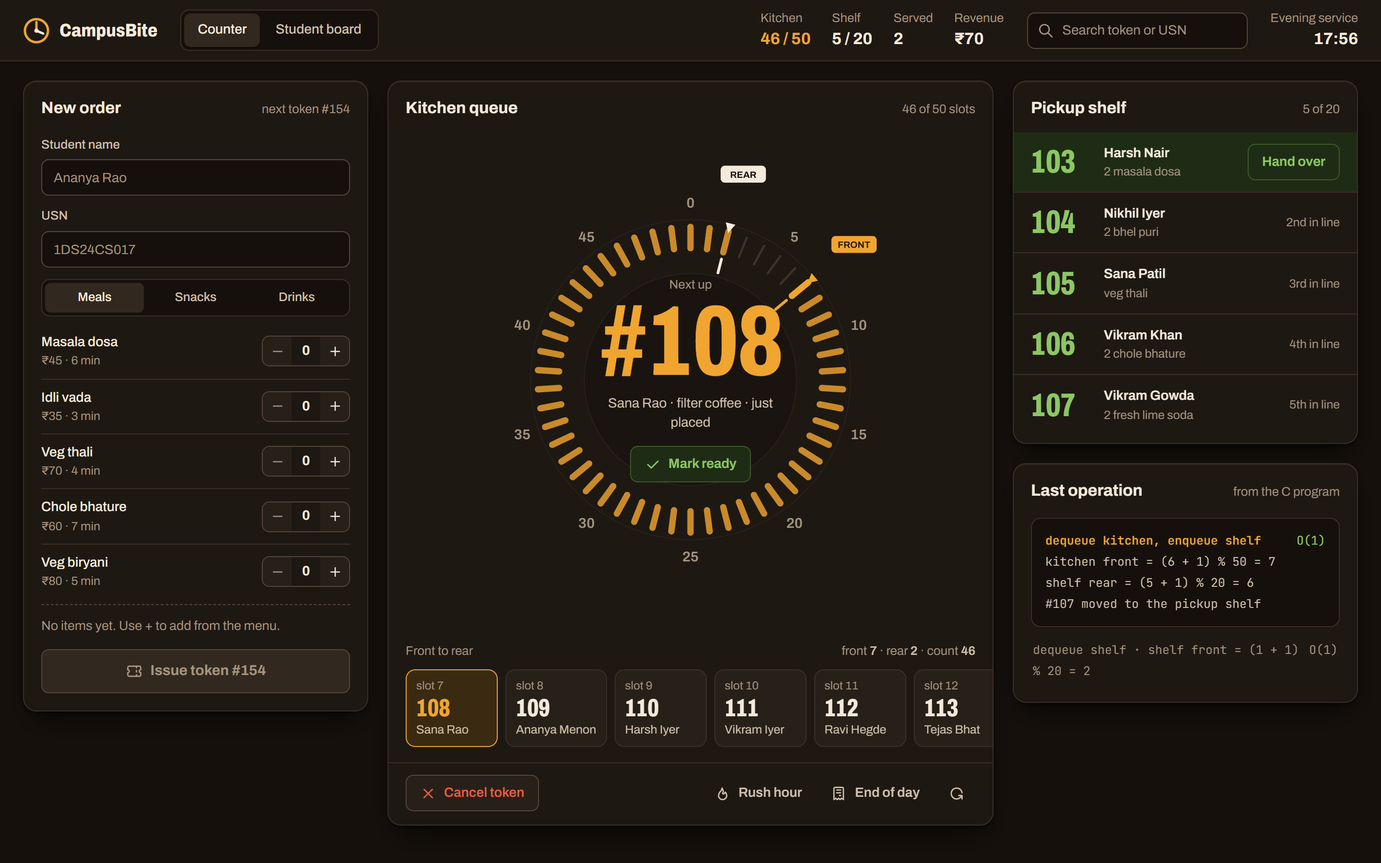
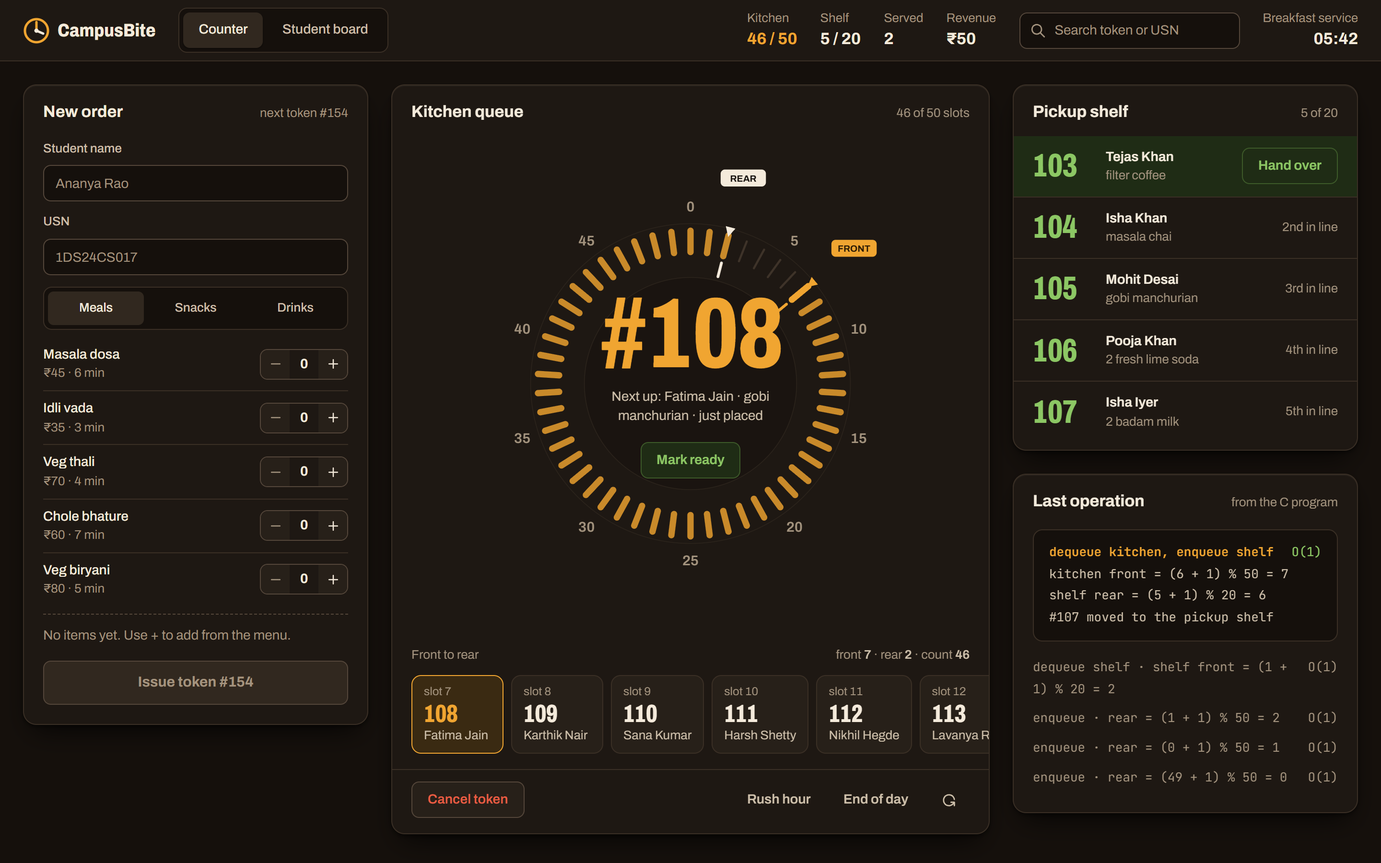
style(dashboard): remove generic UI patterns

diff --git a/dashboard/src/styles.css b/dashboard/src/styles.css
@@ -42,12 +42,12 @@ body { font-family: var(--sans); color: var(--ink); font-size: 15px; line-height
 
 /* ---------- top bar ---------- */
 .bar { display: flex; align-items: center; gap: 24px; padding: 0 24px; height: 64px; border-bottom: 1px solid var(--line); background: var(--surface); position: sticky; top: 0; z-index: 5; }
-.brand { display: flex; align-items: center; gap: 10px; font-weight: 800; font-size: 19px; font-stretch: 85%; white-space: nowrap; }
-.tabs { display: flex; gap: 2px; background: var(--ground); padding: 3px; border-radius: 9px; border: 1px solid var(--line); }
-.tab { appearance: none; border: 0; background: none; color: var(--ink-2); font: inherit; font-size: 14px; font-weight: 500; padding: 7px 14px; border-radius: 7px; cursor: pointer; transition: background .15s, color .15s; white-space: nowrap; }
+.brand { display: flex; align-items: center; gap: 8px; font-weight: 800; font-size: 19px; font-stretch: 85%; white-space: nowrap; }
+.tabs { display: flex; gap: 4px; background: var(--ground); padding: 4px; border-radius: 9px; border: 1px solid var(--line); }
+.tab { appearance: none; border: 0; background: none; color: var(--ink-2); font: inherit; font-size: 14px; font-weight: 500; padding: 8px 16px; border-radius: 7px; cursor: pointer; transition: background .15s, color .15s; white-space: nowrap; }
 .tab:hover { color: var(--ink); }
 .tab[aria-selected="true"] { background: var(--surface-3); color: var(--ink); box-shadow: 0 1px 2px rgba(0, 0, 0, .4); }
-.readouts { display: flex; gap: 22px; margin-left: auto; font-size: 13px; color: var(--ink-3); white-space: nowrap; }
+.readouts { display: flex; gap: 24px; margin-left: auto; font-size: 13px; color: var(--ink-3); white-space: nowrap; }
 .readouts b { display: block; font-size: 17px; color: var(--ink); font-weight: 700; transition: color .2s; }
 .readouts .busy b { color: var(--turmeric); }
 .readouts .full b { color: var(--chilli); }
@@ -56,7 +56,7 @@ body { font-family: var(--sans); color: var(--ink); font-size: 15px; line-height
 .search input[type=text] { width: 230px; padding-left: 36px; }
 .clock { font-size: 13px; color: var(--ink-3); text-align: right; white-space: nowrap; }
 .clock b { display: block; color: var(--ink); font-size: 17px; font-weight: 700; }
-.banner { display: flex; align-items: center; gap: 10px; padding: 10px 24px; font-size: 14px; border-bottom: 1px solid var(--line); background: var(--surface-2); color: var(--ink-2); }
+.banner { display: flex; align-items: center; gap: 12px; padding: 12px 24px; font-size: 14px; border-bottom: 1px solid var(--line); background: var(--surface-2); color: var(--ink-2); }
 .banner.ok { background: var(--leaf-soft); color: var(--ink); border-color: var(--leaf-line); }
 .banner.ok svg { color: var(--leaf); }
 .banner.bad { background: #2c1712; color: var(--chilli-text); border-color: #5a2a20; }
@@ -69,7 +69,7 @@ input[type=text]:hover { border-color: var(--line-hover); }
 input[type=text]:focus { outline: none; border-color: var(--turmeric); box-shadow: 0 0 0 3px rgba(240, 165, 49, .18); }
 input.invalid, input.invalid:focus { border-color: var(--chilli); }
 input.invalid:focus { box-shadow: 0 0 0 3px rgba(236, 91, 66, .2); }
-.btn { appearance: none; font: inherit; font-size: 14px; font-weight: 600; display: inline-flex; align-items: center; justify-content: center; gap: 8px; height: 38px; padding: 0 14px; border-radius: 8px; border: 1px solid var(--line-strong); background: var(--surface-2); color: var(--ink); cursor: pointer; transition: background .15s, border-color .15s, color .15s, transform .1s; white-space: nowrap; }
+.btn { appearance: none; font: inherit; font-size: 14px; font-weight: 600; display: inline-flex; align-items: center; justify-content: center; gap: 8px; height: 38px; padding: 0 16px; border-radius: 8px; border: 1px solid var(--line-strong); background: var(--surface-2); color: var(--ink); cursor: pointer; transition: background .15s, border-color .15s, color .15s, transform .1s; white-space: nowrap; }
 .btn:hover { background: var(--surface-3); border-color: var(--line-hover); }
 .btn:active { transform: translateY(1px); }
 .btn[disabled] { cursor: not-allowed; background: var(--surface-2); border-color: var(--line); color: var(--ink-3); transform: none; }
@@ -79,7 +79,7 @@ input.invalid:focus { box-shadow: 0 0 0 3px rgba(236, 91, 66, .2); }
 .btn.go { background: var(--leaf-soft); border-color: var(--leaf-line); color: var(--leaf); }
 .btn.go:hover { background: var(--leaf-soft-hover); }
 .btn.go[disabled] { background: var(--surface-2); border-color: var(--line); color: var(--ink-3); }
-.btn.ghost { background: none; border-color: transparent; color: var(--ink-2); padding: 0 10px; }
+.btn.ghost { background: none; border-color: transparent; color: var(--ink-2); padding: 0 12px; }
 .btn.ghost:hover { background: var(--surface-2); color: var(--ink); }
 .btn.ghost[disabled] { background: none; border-color: transparent; }
 .btn.danger { color: var(--chilli); }
@@ -87,42 +87,42 @@ input.invalid:focus { box-shadow: 0 0 0 3px rgba(236, 91, 66, .2); }
 .btn.confirm { background: #2c1712; border-color: #5a2a20; color: var(--chilli-text); }
 
 /* ---------- layout ---------- */
-.counter { display: grid; grid-template-columns: 360px minmax(0, 1fr) 360px; gap: 20px; padding: 20px 24px 28px; max-width: 1640px; margin: 0 auto; }
+.counter { display: grid; grid-template-columns: 360px minmax(0, 1fr) 360px; gap: 24px; padding: 24px 24px 32px; max-width: 1640px; margin: 0 auto; }
 .panel { background: var(--surface); border: 1px solid var(--line); border-radius: 14px; box-shadow: var(--shadow); }
-.panel-h { display: flex; align-items: baseline; justify-content: space-between; gap: 12px; padding: 16px 18px 0; }
+.panel-h { display: flex; align-items: baseline; justify-content: space-between; gap: 12px; padding: 16px 20px 0; }
 .panel-h h2 { font-size: 17px; font-weight: 700; }
 .panel-h span { font-size: 13px; color: var(--ink-3); transition: color .2s; }
 .panel-h span.full { color: var(--chilli-text); font-weight: 600; }
-.pad { padding: 16px 18px 18px; }
-.col { display: flex; flex-direction: column; gap: 20px; min-width: 0; }
+.pad { padding: 16px 20px 20px; }
+.col { display: flex; flex-direction: column; gap: 24px; min-width: 0; }
 
 /* ---------- order form ---------- */
-.field { display: grid; gap: 6px; margin-bottom: 12px; }
+.field { display: grid; gap: 8px; margin-bottom: 12px; }
 .field label { font-size: 13px; color: var(--ink-2); font-weight: 500; }
 .msg { display: flex; gap: 8px; font-size: 13px; line-height: 1.4; color: var(--chilli-text); }
 .msg svg { margin-top: 1px; color: var(--chilli); flex: none; }
 .msg.good { color: var(--ink); }
 .msg.good svg { color: var(--leaf); }
-.seg { display: grid; grid-template-columns: repeat(3, 1fr); gap: 2px; background: var(--ground); padding: 3px; border-radius: 9px; border: 1px solid var(--line); margin: 4px 0 8px; }
-.seg button { appearance: none; border: 0; background: none; color: var(--ink-2); font: inherit; font-size: 13px; font-weight: 500; padding: 6px; border-radius: 6px; cursor: pointer; }
+.seg { display: grid; grid-template-columns: repeat(3, 1fr); gap: 4px; background: var(--ground); padding: 4px; border-radius: 9px; border: 1px solid var(--line); margin: 4px 0 8px; }
+.seg button { appearance: none; border: 0; background: none; color: var(--ink-2); font: inherit; font-size: 13px; font-weight: 500; padding: 8px; border-radius: 6px; cursor: pointer; }
 .seg button[aria-pressed="true"] { background: var(--surface-3); color: var(--ink); }
 .menu { list-style: none; }
-.menu li { display: grid; grid-template-columns: minmax(0, 1fr) auto; align-items: center; gap: 10px; padding: 9px 0; border-bottom: 1px solid var(--line); }
+.menu li { display: grid; grid-template-columns: minmax(0, 1fr) auto; align-items: center; gap: 12px; padding: 8px 0; border-bottom: 1px solid var(--line); }
 .menu li:last-child { border-bottom: 0; }
 .menu .nm { font-size: 14px; font-weight: 500; }
-.menu .meta { font-size: 12.5px; color: var(--ink-3); }
+.menu .meta { font-size: 13px; color: var(--ink-3); }
 .menu li.picked .nm { color: var(--turmeric); }
 .step { display: flex; align-items: center; border: 1px solid var(--line-strong); border-radius: 8px; overflow: hidden; }
 .step button { appearance: none; border: 0; background: var(--surface-2); color: var(--ink); width: 30px; height: 30px; cursor: pointer; display: grid; place-items: center; }
 .step button:hover { background: var(--surface-3); }
 .step button[disabled] { color: var(--ink-3); cursor: not-allowed; }
 .step output { width: 30px; text-align: center; font-weight: 700; font-size: 14px; }
-.bill { border-top: 1px dashed var(--line-strong); margin-top: 6px; padding-top: 12px; display: grid; gap: 4px; font-size: 13.5px; color: var(--ink-2); }
+.bill { border-top: 1px dashed var(--line-strong); margin-top: 8px; padding-top: 12px; display: grid; gap: 4px; font-size: 14px; color: var(--ink-2); }
 .bill div { display: flex; justify-content: space-between; gap: 12px; }
 .bill .total { color: var(--ink); font-size: 18px; font-weight: 700; margin-top: 4px; }
 .bill .empty { color: var(--ink-3); }
-.issue { margin-top: 14px; width: 100%; }
-.after-issue { margin-top: 10px; }
+.issue { margin-top: 16px; width: 100%; }
+.after-issue { margin-top: 12px; }
 
 /* ---------- kitchen dial ---------- */
 .dial-wrap { position: relative; width: min(100%, 540px); margin: 0 auto; aspect-ratio: 1; }
@@ -132,75 +132,75 @@ input.invalid:focus { box-shadow: 0 0 0 3px rgba(236, 91, 66, .2); }
 .dial-center { position: absolute; inset: 0; display: flex; flex-direction: column; align-items: center; justify-content: center; text-align: center; pointer-events: none; }
 .dial-center > * { pointer-events: auto; }
 .dial-center .lbl { font-size: 13px; color: var(--ink-3); }
-.dial-center .tok { font-size: clamp(64px, 8.5vw, 104px); line-height: .92; color: var(--turmeric); margin: 2px 0 6px; }
-.dial-center .tok.none { color: var(--ink-3); font-size: clamp(40px, 4.5vw, 56px); margin: 6px 0 8px; }
+.dial-center .tok { font-size: clamp(64px, 8.5vw, 104px); line-height: .92; color: var(--turmeric); margin: 0 0 8px; }
+.dial-center .tok.none { color: var(--ink-3); font-size: clamp(40px, 4.5vw, 56px); margin: 8px 0; }
 .dial-center .who { font-size: 14px; color: var(--ink-2); max-width: 210px; }
-.dial-center .btn { margin-top: 14px; }
+.dial-center .btn { margin-top: 16px; }
 .dial-center .msg { max-width: 200px; margin-top: 8px; justify-content: center; }
-.strip-h { display: flex; justify-content: space-between; align-items: baseline; gap: 12px; padding: 4px 18px 10px; font-size: 13px; color: var(--ink-3); }
+.strip-h { display: flex; justify-content: space-between; align-items: baseline; gap: 12px; padding: 4px 20px 12px; font-size: 13px; color: var(--ink-3); }
 .strip-h b { color: var(--ink-2); font-weight: 600; }
-.strip { display: flex; gap: 8px; padding: 0 18px 16px; overflow-x: auto; }
-.chip { flex: none; min-width: 96px; background: var(--surface-2); border: 1px solid var(--line); border-radius: 10px; padding: 8px 10px; }
+.strip { display: flex; gap: 8px; padding: 0 20px 16px; overflow-x: auto; }
+.chip { flex: none; min-width: 96px; background: var(--surface-2); border: 1px solid var(--line); border-radius: 10px; padding: 8px 12px; }
 .chip .ix { font-size: 12px; color: var(--ink-3); }
 .chip .t { font-size: 26px; line-height: 1.05; }
-.chip .n { font-size: 12.5px; color: var(--ink-2); white-space: nowrap; }
+.chip .n { font-size: 13px; color: var(--ink-2); white-space: nowrap; }
 .chip.front { border-color: var(--turmeric); background: var(--turmeric-soft); }
 .chip.front .t { color: var(--turmeric); }
 .chip.more { display: grid; place-items: center; color: var(--ink-3); font-size: 13px; }
 .chip.wide { min-width: 100%; padding: 16px; }
-.tools { display: flex; gap: 8px; padding: 12px 18px 14px; border-top: 1px solid var(--line); flex-wrap: wrap; align-items: center; }
+.tools { display: flex; gap: 8px; padding: 12px 20px 16px; border-top: 1px solid var(--line); flex-wrap: wrap; align-items: center; }
 .tools .spacer { flex: 1; }
-.tool-form { display: flex; gap: 8px; align-items: center; padding: 0 18px 14px; flex-wrap: wrap; }
+.tool-form { display: flex; gap: 8px; align-items: center; padding: 0 20px 16px; flex-wrap: wrap; }
 .tool-form input { width: 160px; }
 .tool-form .msg { flex-basis: 100%; }
 
 /* ---------- pickup shelf ---------- */
 .shelf { list-style: none; padding-bottom: 8px; margin-top: 12px; }
-.shelf li { display: grid; grid-template-columns: auto minmax(0, 1fr) auto; gap: 12px; align-items: center; padding: 12px 18px; border-top: 1px solid var(--line); }
+.shelf li { display: grid; grid-template-columns: auto minmax(0, 1fr) auto; gap: 12px; align-items: center; padding: 12px 20px; border-top: 1px solid var(--line); }
 .shelf li:first-child { border-top: 0; }
 .shelf .t { font-size: 34px; line-height: 1; color: var(--leaf); min-width: 64px; }
 .shelf .n { font-size: 14px; font-weight: 600; }
-.shelf .meta { font-size: 12.5px; color: var(--ink-3); }
-.shelf .pos { font-size: 12.5px; color: var(--ink-3); }
+.shelf .meta { font-size: 13px; color: var(--ink-3); }
+.shelf .pos { font-size: 13px; color: var(--ink-3); }
 .shelf li.first { background: var(--leaf-soft); }
-.shelf li.empty-row { grid-template-columns: 1fr; color: var(--ink-3); font-size: 14px; padding: 18px; }
+.shelf li.empty-row { grid-template-columns: 1fr; color: var(--ink-3); font-size: 14px; padding: 20px; }
 
 /* ---------- last operation (the C program's own words) ---------- */
-.ops { font-family: var(--mono); font-size: 12.5px; line-height: 1.75; }
-.ops .cur { background: var(--ground); border: 1px solid var(--line); border-radius: 10px; padding: 12px 14px; color: var(--ink-2); }
+.ops { font-family: var(--mono); font-size: 13px; line-height: 1.75; }
+.ops .cur { background: var(--ground); border: 1px solid var(--line); border-radius: 10px; padding: 12px 16px; color: var(--ink-2); }
 .ops .cur b { color: var(--turmeric); font-weight: 600; }
 .ops .cur b.bad { color: var(--chilli-text); }
 .ops .cur .o { float: right; color: var(--leaf); }
 .ops .cur .idle { color: var(--ink-3); }
-.ops ol { list-style: none; margin-top: 10px; color: var(--ink-3); }
-.ops ol li { display: flex; justify-content: space-between; gap: 10px; padding: 3px 2px; }
+.ops ol { list-style: none; margin-top: 12px; color: var(--ink-3); }
+.ops ol li { display: flex; justify-content: space-between; gap: 12px; padding: 4px 0; }
 .ops ol li .bad { color: var(--chilli-text); }
 
 /* ---------- student board ---------- */
-.board { padding: 28px 32px 40px; max-width: 1640px; margin: 0 auto; }
-.calling { display: flex; align-items: center; justify-content: space-between; gap: 24px; background: var(--leaf-soft); border: 1px solid var(--leaf-line); border-radius: 18px; padding: 22px 32px; margin-bottom: 24px; box-shadow: var(--shadow); }
+.board { padding: 32px 32px 40px; max-width: 1640px; margin: 0 auto; }
+.calling { display: flex; align-items: center; justify-content: space-between; gap: 24px; background: var(--leaf-soft); border: 1px solid var(--leaf-line); border-radius: 18px; padding: 24px 32px; margin-bottom: 24px; box-shadow: var(--shadow); }
 .calling h2 { font-size: clamp(26px, 3vw, 36px); font-weight: 700; line-height: 1.15; }
-.calling h2 span { display: block; font-size: .6em; color: var(--ink-2); font-weight: 500; margin-top: 6px; }
+.calling h2 span { display: block; font-size: .6em; color: var(--ink-2); font-weight: 500; margin-top: 8px; }
 .calling .t { font-size: clamp(96px, 14vw, 200px); line-height: .85; color: var(--leaf); }
 .calling.idle { background: var(--surface); border-color: var(--line); }
 .calling.idle .t { color: var(--ink-3); }
 .cols2 { display: grid; grid-template-columns: 1.4fr 1fr; gap: 24px; }
-.cols2 h3 { font-size: 22px; font-weight: 700; padding: 18px 24px 4px; display: flex; justify-content: space-between; align-items: baseline; gap: 12px; }
+.cols2 h3 { font-size: 22px; font-weight: 700; padding: 20px 24px 4px; display: flex; justify-content: space-between; align-items: baseline; gap: 12px; }
 .cols2 h3 span { font-size: 15px; color: var(--ink-3); font-weight: 500; }
 .cols2 h3 span.full { color: var(--chilli-text); font-weight: 600; }
 .bignums { display: grid; grid-template-columns: repeat(auto-fill, minmax(150px, 1fr)); gap: 12px; padding: 16px 24px 24px; }
-.bignums > div { background: var(--surface-2); border: 1px solid var(--line); border-radius: 12px; padding: 10px 16px; font-size: 64px; line-height: 1; }
+.bignums > div { background: var(--surface-2); border: 1px solid var(--line); border-radius: 12px; padding: 12px 16px; font-size: 64px; line-height: 1; }
 .bignums > div small { display: block; font-size: 13px; font-stretch: 100%; font-weight: 500; color: var(--ink-3); letter-spacing: 0; margin-bottom: 2px; }
 .bignums.prep > div:first-child { color: var(--turmeric); border-color: var(--turmeric); background: var(--turmeric-soft); }
 .bignums.ready > div { color: var(--leaf); border-color: var(--leaf-line); background: var(--leaf-soft); }
 .bignums > div.more { display: grid; place-items: center; font-size: 22px; font-stretch: 100%; font-weight: 600; color: var(--ink-3); }
-.bignums > div.none { grid-column: 1 / -1; font-size: 18px; font-stretch: 100%; font-weight: 500; color: var(--ink-3); background: none; border-style: dashed; padding: 22px 16px; }
+.bignums > div.none { grid-column: 1 / -1; font-size: 18px; font-stretch: 100%; font-weight: 500; color: var(--ink-3); background: none; border-style: dashed; padding: 24px 16px; }
 .board-foot { margin-top: 20px; color: var(--ink-3); font-size: 15px; display: flex; justify-content: space-between; flex-wrap: wrap; gap: 12px; }
 
 /* ---------- connecting / offline ---------- */
 .center-screen { min-height: 70vh; display: grid; place-items: center; text-align: center; color: var(--ink-2); padding: 24px; }
 .center-screen h2 { font-size: 22px; color: var(--ink); margin-bottom: 8px; }
-.center-screen code { font-family: var(--mono); background: var(--surface-2); border: 1px solid var(--line); border-radius: 6px; padding: 2px 6px; font-size: 13px; }
+.center-screen code { font-family: var(--mono); background: var(--surface-2); border: 1px solid var(--line); border-radius: 6px; padding: 2px 8px; font-size: 13px; }
 
 @media (max-width: 1320px) {
   .counter { grid-template-columns: 340px minmax(0, 1fr); }
@@ -216,7 +216,7 @@ input.invalid:focus { box-shadow: 0 0 0 3px rgba(236, 91, 66, .2); }
   .counter > .col:first-child { order: 2; }
   .counter > .col:last-child { grid-template-columns: 1fr; order: 3; }
   .board { padding: 16px; }
-  .calling { flex-direction: column; align-items: flex-start; padding: 18px 20px; }
+  .calling { flex-direction: column; align-items: flex-start; padding: 20px; }
   .cols2 { grid-template-columns: 1fr; }
   .cols2 h3 { padding: 16px 16px 4px; }
   .bignums { grid-template-columns: repeat(auto-fill, minmax(96px, 1fr)); gap: 8px; padding: 12px 16px 16px; }
@@ -224,8 +224,8 @@ input.invalid:focus { box-shadow: 0 0 0 3px rgba(236, 91, 66, .2); }
   .dial-center .lbl { font-size: 12px; }
   .dial-center .tok { font-size: 50px; margin: 0 0 4px; }
   .dial-center .who { font-size: 12px; max-width: 132px; }
-  .dial-center .btn { margin-top: 8px; height: 32px; font-size: 13px; padding: 0 10px; }
-  .dial-center .msg { font-size: 11.5px; max-width: 140px; }
+  .dial-center .btn { margin-top: 8px; height: 32px; font-size: 13px; padding: 0 12px; }
+  .dial-center .msg { font-size: 12px; max-width: 140px; }
   .dial-num.minor { display: none; }
 }
 @media (prefers-reduced-motion: reduce) { .hand, .tick { transition: none; } }

diff --git a/dashboard/src/components/KitchenQueue.jsx b/dashboard/src/components/KitchenQueue.jsx
@@ -1,5 +1,5 @@
 import { useState } from 'react';
-import { IconAlertTriangle, IconCheck, IconCircleCheck, IconFlame, IconReceipt, IconRotate, IconX } from '@tabler/icons-react';
+import { IconRotate } from '@tabler/icons-react';
 import KitchenDial from './KitchenDial.jsx';
 import { itemText, waitText } from '../format.js';
 
@@ -43,16 +43,15 @@ export default function KitchenQueue({ kitchen, shelf, menu, run, pending }) {
       <div className="dial-wrap">
         <KitchenDial queue={kitchen} />
         <div className="dial-center">
-          <div className="lbl">Next up</div>
           <div className={`tok cond num ${next ? '' : 'none'}`}>{next ? `#${next.token}` : 'Empty'}</div>
           <div className="who">
-            {next ? `${next.name} · ${itemText(next.items, menu)} · ${waitText(next.waitingMin)}` : 'No orders in the kitchen. Issue a token to start.'}
+            {next ? `Next up: ${next.name} · ${itemText(next.items, menu)} · ${waitText(next.waitingMin)}` : 'No orders in the kitchen. Issue a token to start.'}
           </div>
           <button className="btn go" type="button" onClick={markReady} disabled={!next || shelfFull || pending}>
-            <IconCheck size={17} aria-hidden="true" />Mark ready
+            Mark ready
           </button>
-          {next && shelfFull && <div className="msg"><IconAlertTriangle size={16} aria-hidden="true" /><span>Pickup shelf full. Hand over the front order first.</span></div>}
-          {readyMsg && !shelfFull && <div className="msg"><IconAlertTriangle size={16} aria-hidden="true" /><span>{readyMsg}</span></div>}
+          {next && shelfFull && <div className="msg"><span>Pickup shelf full. Hand over the front order first.</span></div>}
+          {readyMsg && !shelfFull && <div className="msg"><span>{readyMsg}</span></div>}
         </div>
       </div>
 
@@ -81,7 +80,6 @@ export default function KitchenQueue({ kitchen, shelf, menu, run, pending }) {
           <button className="btn ghost" type="button" onClick={() => { setTool(null); setToolMsg(null); }}>Close</button>
           {toolMsg && (
             <div className={`msg ${toolMsg.ok ? 'good' : ''}`} role="status">
-              {toolMsg.ok ? <IconCircleCheck size={16} aria-hidden="true" /> : <IconAlertTriangle size={16} aria-hidden="true" />}
               <span>{toolMsg.message}</span>
             </div>
           )}
@@ -90,11 +88,11 @@ export default function KitchenQueue({ kitchen, shelf, menu, run, pending }) {
 
       <div className="tools">
         <button className="btn danger" type="button" onClick={() => setTool(tool === 'cancel' ? null : 'cancel')}>
-          <IconX size={17} aria-hidden="true" />Cancel token
+          Cancel token
         </button>
         <span className="spacer" />
-        <button className="btn ghost" type="button" onClick={() => run('RUSH')} disabled={pending}><IconFlame size={17} aria-hidden="true" />Rush hour</button>
-        <button className="btn ghost" type="button" onClick={() => run('SUMMARY')} disabled={pending}><IconReceipt size={17} aria-hidden="true" />End of day</button>
+        <button className="btn ghost" type="button" onClick={() => run('RUSH')} disabled={pending}>Rush hour</button>
+        <button className="btn ghost" type="button" onClick={() => run('SUMMARY')} disabled={pending}>End of day</button>
         <button className={`btn ghost ${confirmDay ? 'confirm' : ''}`} type="button" onClick={newDay} onBlur={() => setConfirmDay(false)}
                 aria-label={confirmDay ? 'Click again to clear everything' : 'Start a new day'} title="Start a new day">
           <IconRotate size={17} aria-hidden="true" />{confirmDay && 'Clear everything?'}

diff --git a/dashboard/src/components/OrderForm.jsx b/dashboard/src/components/OrderForm.jsx
@@ -1,5 +1,5 @@
 import { useMemo, useState } from 'react';
-import { IconAlertCircle, IconAlertTriangle, IconCircleCheck, IconMinus, IconPlus, IconTicket } from '@tabler/icons-react';
+import { IconMinus, IconPlus } from '@tabler/icons-react';
 import { NAME_PATTERN, USN_PATTERN, rupees } from '../format.js';
 
 const SECTIONS = ['Meals', 'Snacks', 'Drinks'];
@@ -75,7 +75,7 @@ export default function OrderForm({ menu, limits, state, run }) {
           <input id="f-usn" type="text" autoComplete="off" placeholder="1DS24CS017" className={`num ${usnError ? 'invalid' : ''}`}
                  value={usn} aria-invalid={!!usnError} aria-describedby="usn-msg"
                  onChange={(e) => { setUsn(e.target.value); setResult(null); }} />
-          {usnError && <div className="msg" id="usn-msg"><IconAlertCircle size={16} aria-hidden="true" /><span>{usnError}</span></div>}
+          {usnError && <div className="msg" id="usn-msg"><span>{usnError}</span></div>}
         </div>
 
         <div className="seg" role="group" aria-label="Menu section">
@@ -114,13 +114,11 @@ export default function OrderForm({ menu, limits, state, run }) {
         </div>
 
         <button className="btn primary issue" type="submit" disabled={!canIssue}>
-          <IconTicket size={18} aria-hidden="true" />
           {full ? 'Kitchen full' : sending ? 'Issuing…' : `Issue token #${state.nextToken}`}
         </button>
-        {block && <div className="msg after-issue"><IconAlertTriangle size={16} aria-hidden="true" /><span>{block}</span></div>}
+        {block && <div className="msg after-issue"><span>{block}</span></div>}
         {result && (
           <div className={`msg after-issue ${result.ok ? 'good' : ''}`} role="status">
-            {result.ok ? <IconCircleCheck size={16} aria-hidden="true" /> : <IconAlertTriangle size={16} aria-hidden="true" />}
             <span>{result.message}</span>
           </div>
         )}

diff --git a/dashboard/src/components/StudentBoard.jsx b/dashboard/src/components/StudentBoard.jsx
@@ -14,15 +14,15 @@ export default function StudentBoard({ state }) {
           {calling ? `${calling.name}, please collect` : 'No orders ready yet'}
           <span>{calling ? `Token ${calling.token} is ready at the counter` : 'Watch for your token number here'}</span>
         </h2>
-        <div className="t cond num">{calling ? calling.token : '—'}</div>
+        {calling && <div className="t cond num">{calling.token}</div>}
       </div>
 
       <div className="cols2">
         <div className="panel">
-          <h3>Preparing <span className={`num ${full ? 'full' : ''}`}>{kitchen.count} {kitchen.count === 1 ? 'order' : 'orders'}{full ? ' · kitchen full' : ''}</span></h3>
+          <h3>Preparing <span className={`num ${full ? 'full' : ''}`}>{kitchen.count} {kitchen.count === 1 ? 'order' : 'orders'}{kitchen.count ? ` · ${kitchen.orders[0].token} is next` : ''}{full ? ' · kitchen full' : ''}</span></h3>
           <div className="bignums prep cond num">
             {kitchen.orders.slice(0, shown).map((o, k) => (
-              <div key={o.token}>{k === 0 && <small>Next</small>}{o.token}</div>
+              <div key={o.token}>{o.token}</div>
             ))}
             {kitchen.count > PREP_TILES && <div className="more">+{kitchen.count - shown} more</div>}
             {!kitchen.count && <div className="none">No orders in the kitchen right now.</div>}

diff --git a/dashboard/src/App.jsx b/dashboard/src/App.jsx
@@ -1,5 +1,5 @@
 import { useCallback, useEffect, useRef, useState } from 'react';
-import { IconAlertTriangle, IconCircleCheck, IconPlugConnectedX } from '@tabler/icons-react';
+import { IconPlugConnectedX } from '@tabler/icons-react';
 import { getMenu, getState, sendCommand } from './api.js';
 import TopBar from './components/TopBar.jsx';
 import OrderForm from './components/OrderForm.jsx';
@@ -107,13 +107,11 @@ export default function App() {
       <TopBar state={state} view={view} onView={setView} onSearch={search} />
       {offline && (
         <div className="banner bad" role="alert">
-          <IconPlugConnectedX size={18} aria-hidden="true" />
           Lost connection to the C program. Showing the last known state.
         </div>
       )}
       {banner && (
         <div className={`banner ${banner.kind}`} role="status">
-          {banner.kind === 'ok' ? <IconCircleCheck size={18} aria-hidden="true" /> : <IconAlertTriangle size={18} aria-hidden="true" />}
           {banner.text}
           <button className="btn ghost" onClick={() => setBanner(null)}>Dismiss</button>
         </div>

diff --git a/README.md b/README.md
@@ -445,16 +445,16 @@ One command per line on stdin, one JSON line back on stdout ([`src/pipe.c`](src/
 
 | Command | Arguments | Does | Queue work |
 |---|---|---|---|
-| `STATE` | — | Return the current state | — |
-| `MENU` | — | Return the menu and limits | — |
+| `STATE` | none | Return the current state | none |
+| `MENU` | none | Return the menu and limits | none |
 | `PLACE` | `name\|usn\|id:qty,id:qty` | Issue a token | enqueue |
-| `READY` | — | Kitchen front → shelf | dequeue + enqueue |
-| `HANDOVER` | — | Shelf front → served | dequeue |
+| `READY` | none | Kitchen front → shelf | dequeue + enqueue |
+| `HANDOVER` | none | Shelf front → served | dequeue |
 | `CANCEL` | `token` | Cancel a kitchen order | remove + shift |
 | `SEARCH` | `token or USN` | Find an active order | linear search |
-| `RUSH` | — | Fill the kitchen with demo orders | enqueue × n |
-| `SUMMARY` | — | End-of-day totals | — |
-| `NEWDAY` | — | Clear both queues | init |
+| `RUSH` | none | Fill the kitchen with demo orders | enqueue × n |
+| `SUMMARY` | none | End-of-day totals | none |
+| `NEWDAY` | none | Clear both queues | init |
 
 Example: `READY` returns (state trimmed):
 
